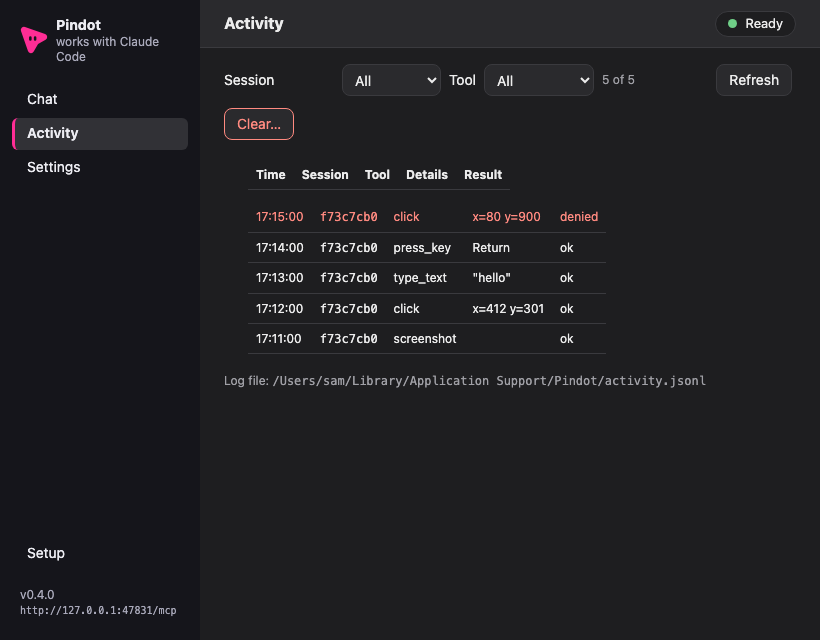
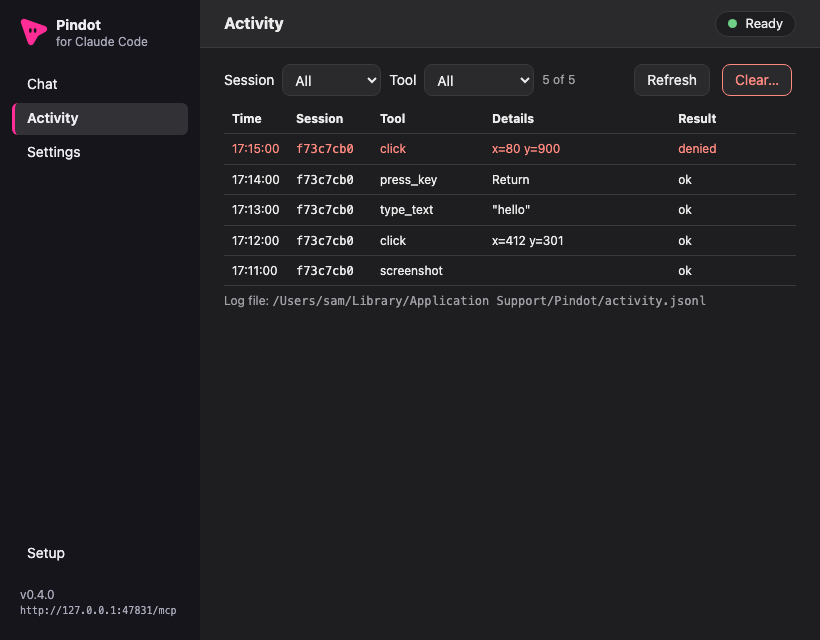
Activity table uses the full width again, shorter sidebar tagline, plain labels for chat step lines

diff --git a/app/src/views/Chat.svelte b/app/src/views/Chat.svelte
@@ -12,7 +12,7 @@
     type Imported,
     type VoiceDisplay,
   } from '../lib/api';
-  import { formatBytes, shortTime } from '../lib/format';
+  import { formatBytes, shortTime, stepLabel } from '../lib/format';
   import Markdown from '../components/Markdown.svelte';
   import Thumb from '../components/Thumb.svelte';
 
@@ -231,7 +231,7 @@
   }
   const stepCount = (n: number) => (n === 1 ? '1 step' : `${n} steps`);
   function groupLabel(steps: { name: string }[]) {
-    const names = [...new Set(steps.map((s) => s.name))];
+    const names = [...new Set(steps.map((s) => stepLabel(s.name)))];
     return `${stepCount(steps.length)}: ${names.slice(0, 4).join(', ')}${names.length > 4 ? ', ...' : ''}`;
   }
   const stamp = (secs: number) => shortTime(new Date(secs * 1000).toISOString());
@@ -331,10 +331,11 @@
               <li>
                 <details class="step" class:err={s.is_error}>
                   <summary>
-                    <span class="sname">{s.name}</span>
+                    <span class="sname">{stepLabel(s.name)}</span>
                     <span class="ssum">{s.summary}</span>
                     {#if s.result === null && busy && !viewing}<span class="running">running</span>{/if}
                   </summary>
+                  {#if s.name !== stepLabel(s.name)}<p class="muted small rawname">Tool: <code>{s.name}</code></p>{/if}
                   {#if s.result !== null}<pre>{s.result || '(no output)'}</pre>{:else}<p class="muted small">No result yet.</p>{/if}
                 </details>
               </li>

diff --git a/app/src/lib/format.ts b/app/src/lib/format.ts
@@ -174,3 +174,32 @@ export function luminance(hex: string): number {
 export function eyeInk(hex: string): string {
   return luminance(hex) < 0.12 ? '#f5f5f7' : '#15151b';
 }
+
+const STEP_LABELS: Record<string, string> = {
+  desktop_context: 'Look at the desktop',
+  request_access: 'Ask to use an app',
+  open_app: 'Open an app',
+  focus_window: 'Bring a window forward',
+  read_window: 'Read window',
+  find: 'Find on screen',
+  screenshot: 'Take a screenshot',
+  zoom: 'Zoom in',
+  click: 'Click',
+  type_text: 'Type',
+  key: 'Press a key',
+  scroll: 'Scroll',
+  drag: 'Drag',
+  wait: 'Wait',
+  point: 'Point',
+  vault_logins: 'Look up saved logins',
+  vault_fill: 'Sign in with a saved login',
+};
+
+/** A plain label for a tool name in a chat step line. The raw name is shown on expand. */
+export function stepLabel(name: string): string {
+  const m = /^mcp__[^_]+(?:_[^_]+)*?__(.+)$/.exec(name);
+  const tool = m ? m[1] : name;
+  if (STEP_LABELS[tool]) return STEP_LABELS[tool];
+  if (m) return tool.replace(/_/g, ' ').replace(/^./, (c) => c.toUpperCase());
+  return name;
+}

diff --git a/app/src/app.css b/app/src/app.css
@@ -92,6 +92,7 @@ body {
 .brand-text span {
   font-size: var(--fs-xs);
   color: var(--ink-muted);
+  white-space: nowrap;
 }
 
 .brand .mark {
@@ -482,16 +483,42 @@ td.actions {
   text-align: right;
 }
 
-table.log {
+/* The activity table. (Not ".log": that is the chat transcript's class.) */
+table.actlog {
   font-size: 12px;
+  table-layout: fixed;
 }
 
-table.log td.args {
+table.actlog .c-time {
+  width: 64px;
+}
+
+table.actlog .c-session {
+  width: 84px;
+}
+
+table.actlog .c-tool {
+  width: 112px;
+}
+
+table.actlog .c-result {
+  width: 22%;
+}
+
+table.actlog td {
+  overflow-wrap: anywhere;
+}
+
+table.actlog td.args {
   word-break: break-word;
 }
 
-table.log tr.fail td {
+table.actlog tr.fail td {
   color: var(--bad);
+}
+
+.filters > label:first-child {
+  min-width: 0;
 }
 
 .bar {
@@ -1043,4 +1070,8 @@ code {
   background: color-mix(in srgb, var(--bg) 85%, transparent);
   font-size: var(--fs-lg);
   pointer-events: none;
+}
+
+.rawname {
+  margin: 4px 0;
 }

diff --git a/app/src/lib/format.test.ts b/app/src/lib/format.test.ts
@@ -12,6 +12,7 @@ import {
   permissionText,
   progressText,
   shortTime,
+  stepLabel,
 } from './format';
 import { errorText, type ActivityEntry } from './api';
 
@@ -118,5 +119,19 @@ describe('cursor colour helpers', () => {
     }
     expect(eyeInk('#000000')).toBe('#f5f5f7');
     expect(eyeInk('#ffffff')).toBe('#15151b');
+  });
+});
+
+describe('stepLabel', () => {
+  it('gives the desktop tools plain labels', () => {
+    expect(stepLabel('mcp__desktop__request_access')).toBe('Ask to use an app');
+    expect(stepLabel('mcp__desktop__read_window')).toBe('Read window');
+    expect(stepLabel('mcp__desktop__click')).toBe('Click');
+    expect(stepLabel('mcp__desktop__vault_fill')).toBe('Sign in with a saved login');
+  });
+  it('leaves built-in tools as they are and tidies unknown MCP tools', () => {
+    expect(stepLabel('Read')).toBe('Read');
+    expect(stepLabel('Glob')).toBe('Glob');
+    expect(stepLabel('mcp__other__do_thing')).toBe('Do thing');
   });
 });

diff --git a/app/src/App.svelte b/app/src/App.svelte
@@ -78,7 +78,7 @@
       <svg class="mark" viewBox="40 40 176 176" width="28" height="28" aria-hidden="true"><path fill="#ff2d95" fill-rule="evenodd" d="M46.12 71.59 A20 20 0 0 1 71.59 46.12 L197.59 90.12 A20 20 0 0 1 200.99 126.32 L153.64 153.64 L126.32 200.99 A20 20 0 0 1 90.12 197.59 Z M97.0 113.0 a8.0 8.0 0 0 1 16 0 v12 a8.0 8.0 0 0 1 -16 0 Z M127.0 113.0 a8.0 8.0 0 0 1 16 0 v12 a8.0 8.0 0 0 1 -16 0 Z"/></svg>
       <div class="brand-text">
         <strong>Pindot</strong>
-        <span>works with Claude Code</span>
+        <span>for Claude Code</span>
       </div>
     </div>
     <nav aria-label="Main">

diff --git a/docs/ui-pass/tools/mock-chat.js b/docs/ui-pass/tools/mock-chat.js
@@ -12,6 +12,7 @@
   ];
   const steps = [
     u('u1', 'What is in my notes about the Lisbon trip?'),
+    st('s0', 'mcp__desktop__request_access', 'Notes', 'The user approved for this session: Notes.'),
     st('s1', 'Glob', 'Lisbon*.md', '/Users/sam/Notes/Trips/Lisbon plan.md\n/Users/sam/Notes/Trips/Lisbon food.md'),
     st('s2', 'Read', '/Users/sam/Notes/Trips/Lisbon plan.md', '# Lisbon plan\n\nFlights: TP 1355, 12 March, 07:40\nHotel: Alfama, 4 nights\nTo book: Sintra day trip'),
     st('s3', 'Read', '/Users/sam/Notes/Trips/Lisbon food.md', null),

diff --git a/app/src/views/Activity.svelte b/app/src/views/Activity.svelte
@@ -82,9 +82,9 @@
       </p>
     </div>
   {:else}
-    <table class="log">
+    <table class="actlog">
       <thead>
-        <tr><th>Time</th><th>Session</th><th>Tool</th><th>Details</th><th>Result</th></tr>
+        <tr><th class="c-time">Time</th><th class="c-session">Session</th><th class="c-tool">Tool</th><th>Details</th><th class="c-result">Result</th></tr>
       </thead>
       <tbody>
         {#each rows as e, i (i)}
